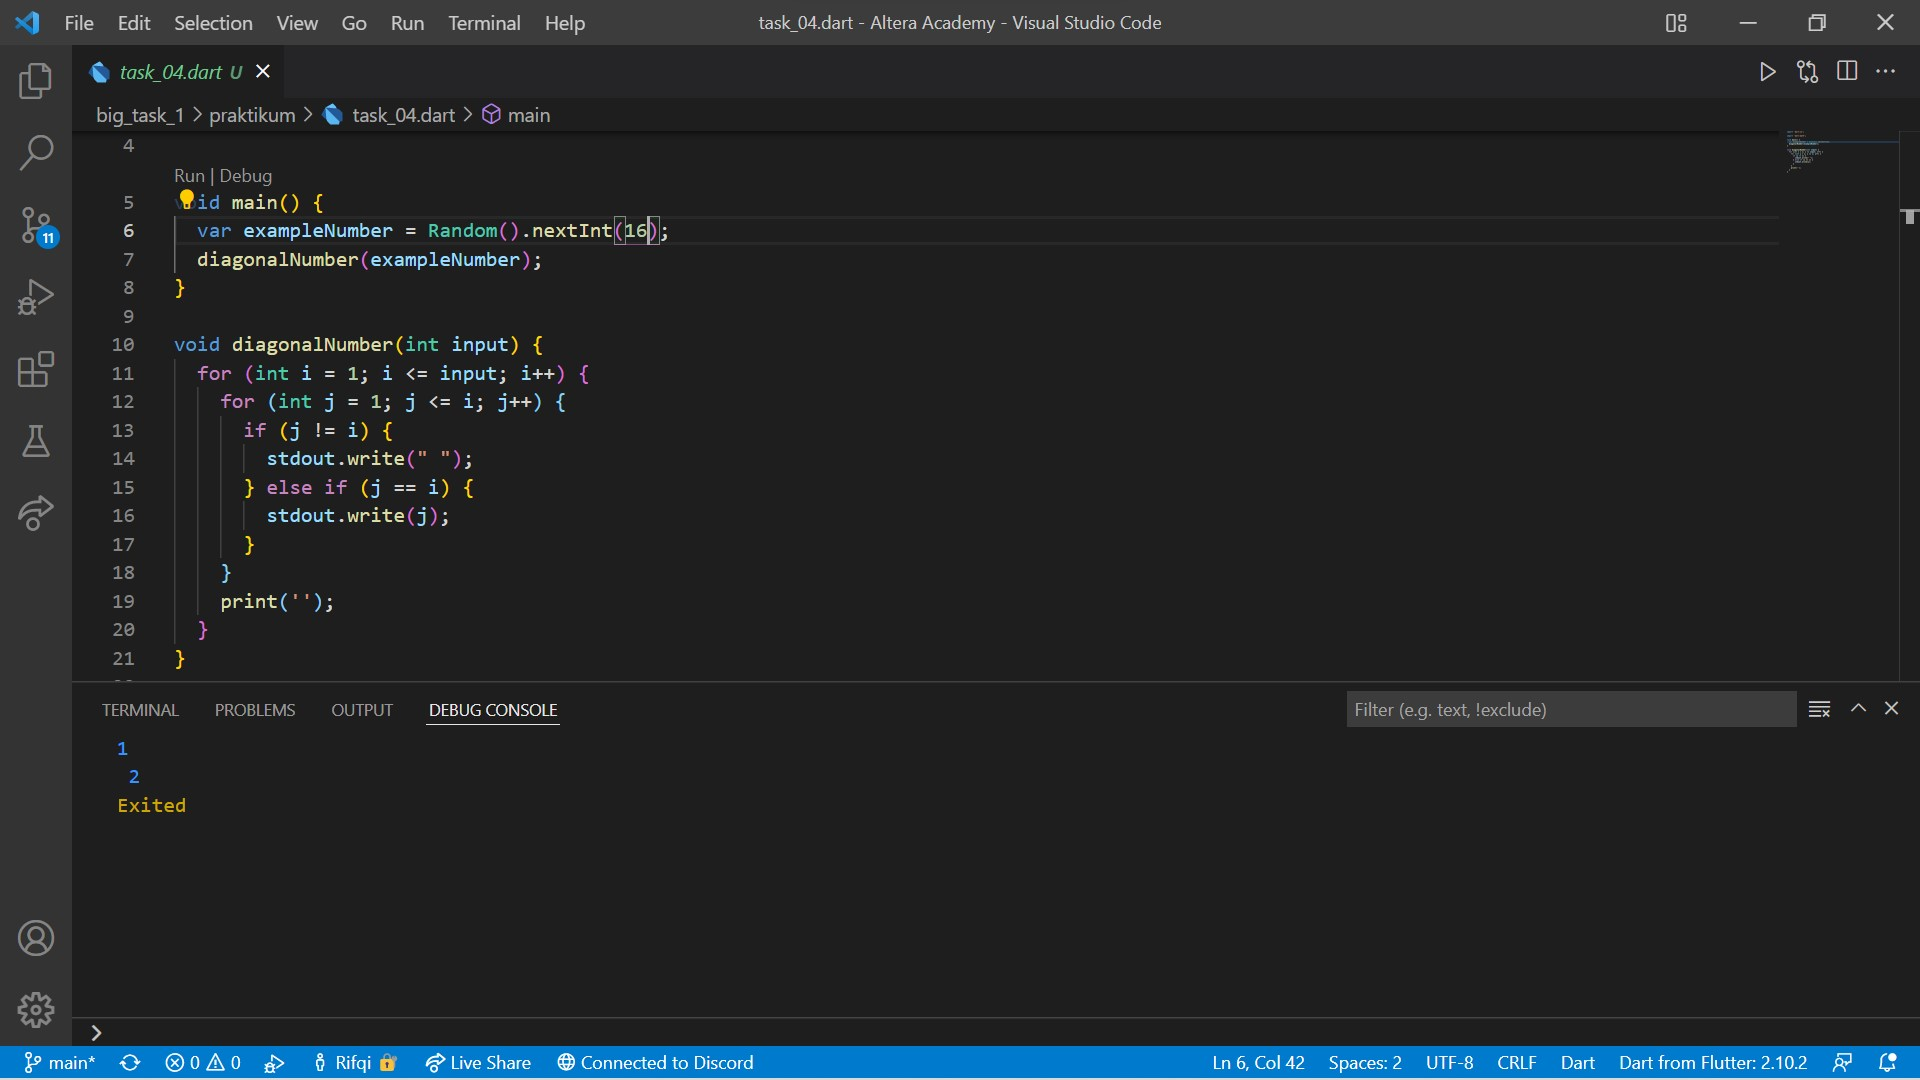
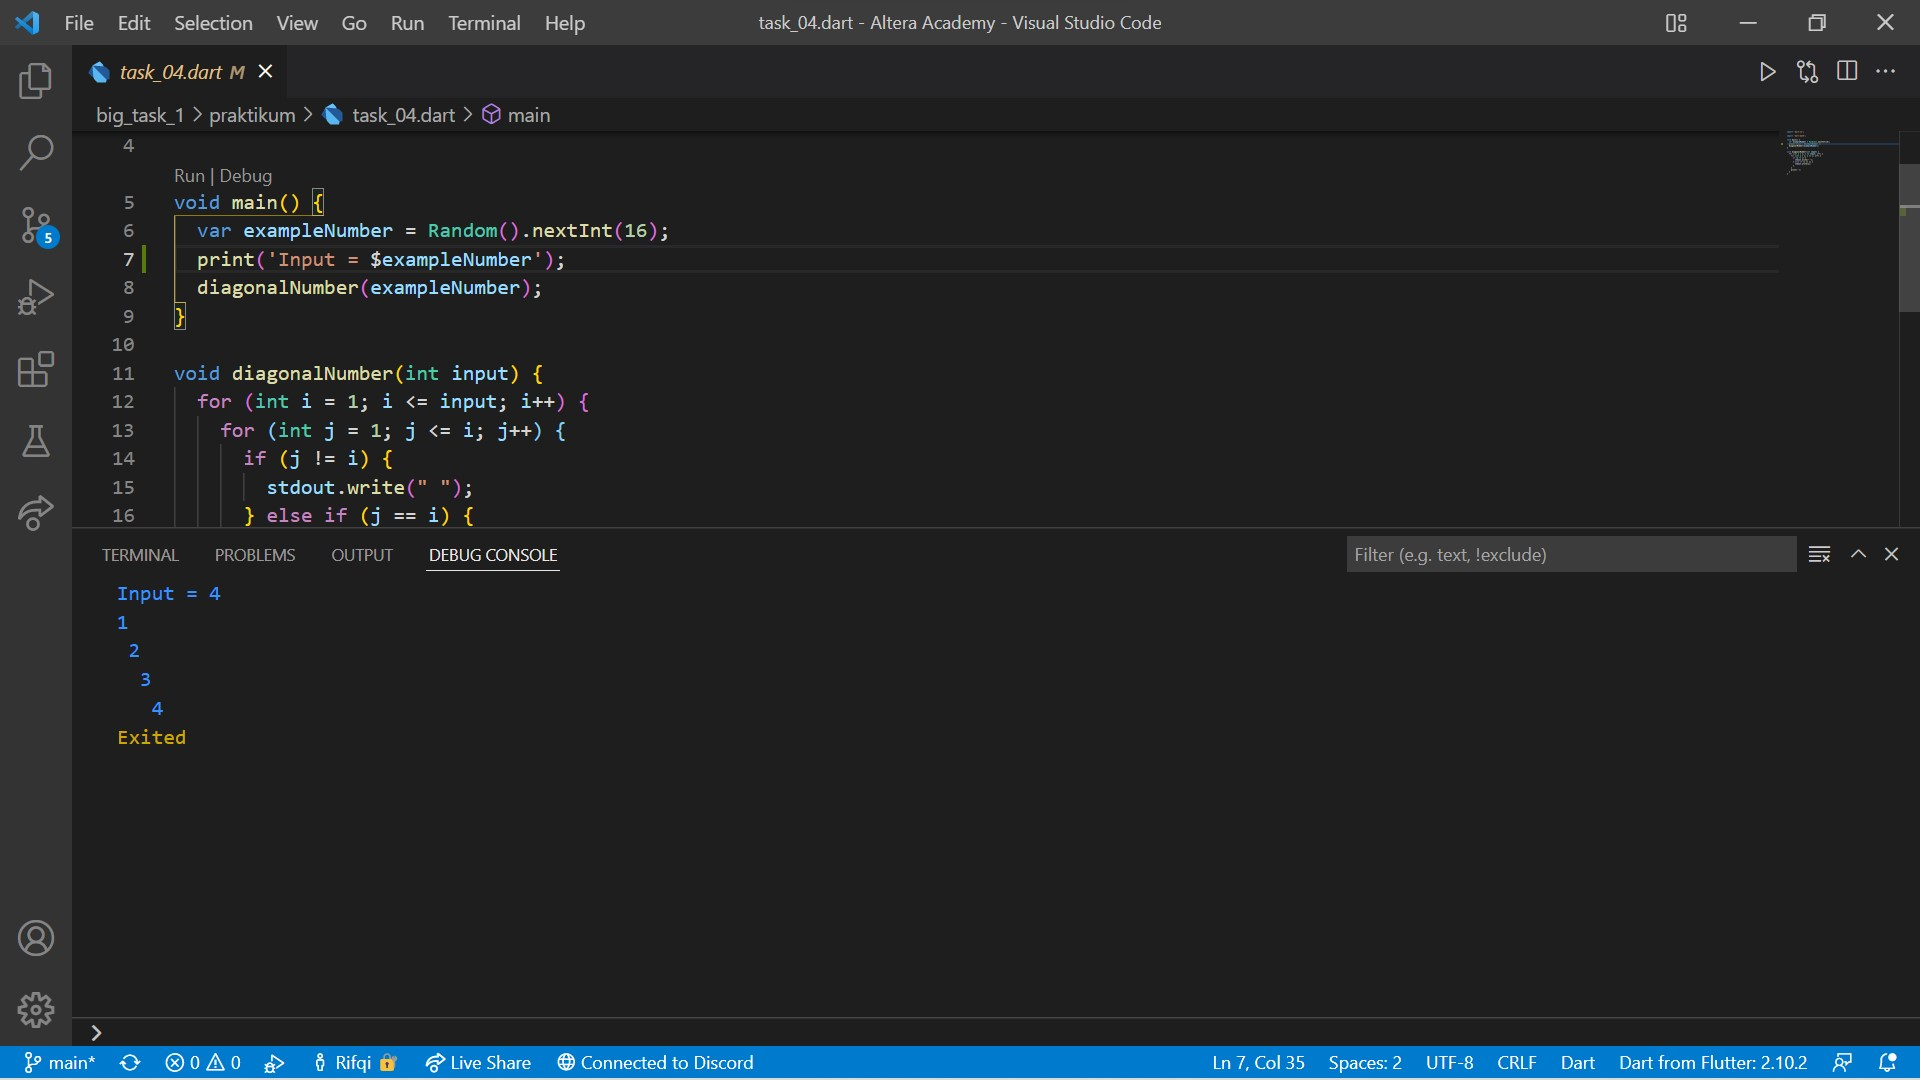
updated Big Task 1

diff --git a/big_task_1/praktikum/task_04.dart b/big_task_1/praktikum/task_04.dart
@@ -4,6 +4,7 @@ import 'dart:math';
 
 void main() {
   var exampleNumber = Random().nextInt(16);
+  print('Input = $exampleNumber');
   diagonalNumber(exampleNumber);
 }
 

diff --git a/big_task_1/praktikum/task_03.dart b/big_task_1/praktikum/task_03.dart
@@ -4,6 +4,7 @@ import 'dart:math';
 
 void main() {
   var exampleNumber = Random().nextInt(10);
+  print('Input = $exampleNumber');
   jamPasir(exampleNumber);
 }
 
